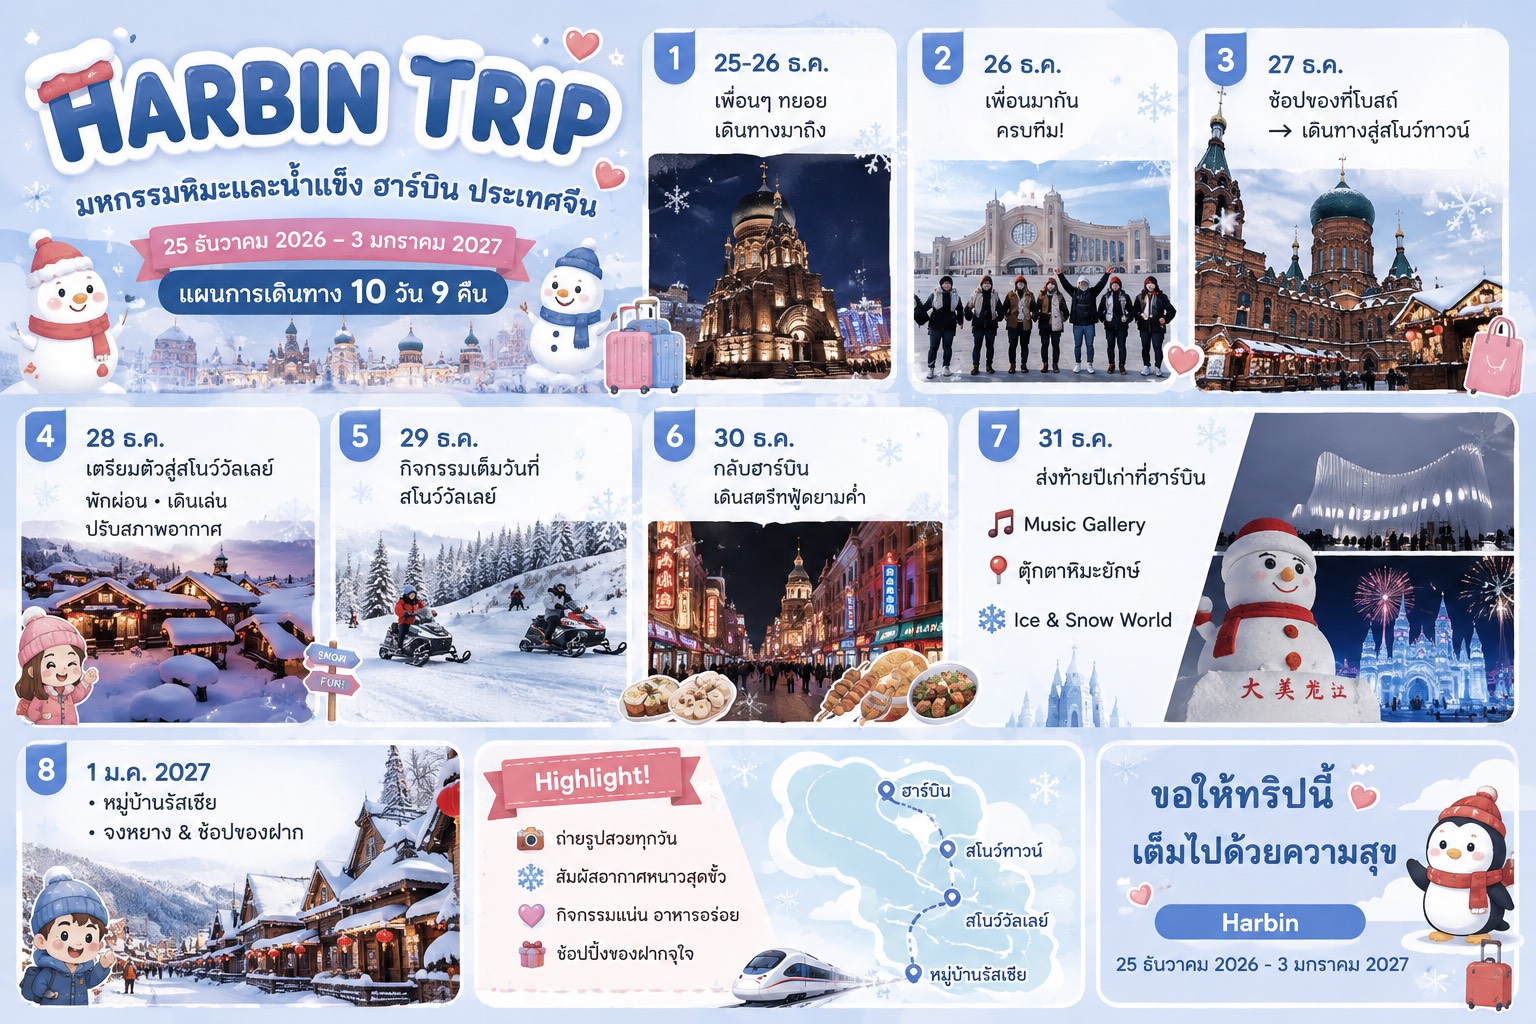
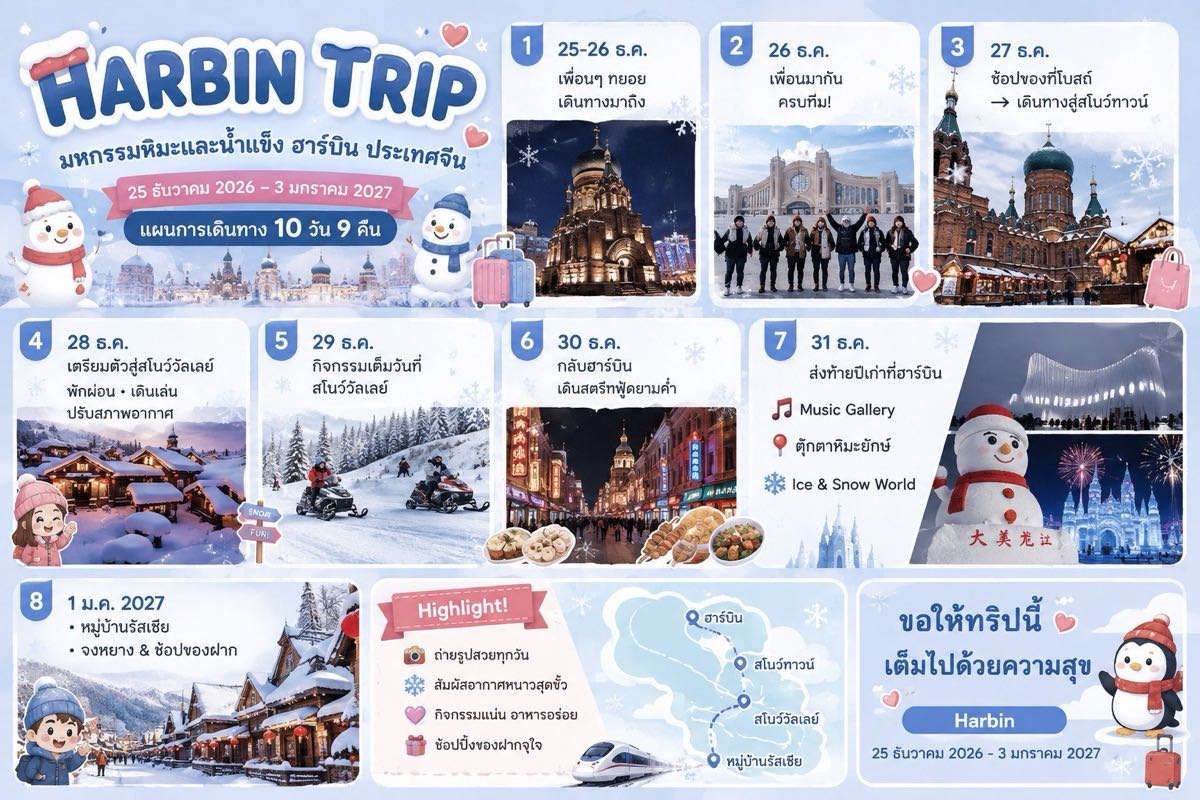
perf: fix slow mobile load
- Move Phosphor Icons script to body with defer (was render-blocking)
- Compress trip-poster.jpg from 486KB to 199KB (resize 1200px + quality 50)
- Add loading=lazy to poster image
- Add preconnect hints for Google Fonts
- Inline critical body CSS in index.html
- Add Thai lang + theme-color meta

diff --git a/index.html b/index.html
@@ -1,15 +1,23 @@
 <!doctype html>
-<html lang="en">
+<html lang="th">
   <head>
     <meta charset="UTF-8" />
     <link rel="icon" type="image/svg+xml" href="/favicon.svg" />
     <meta name="viewport" content="width=device-width, initial-scale=1.0" />
-    <link href="https://fonts.googleapis.com/css2?family=Mitr:wght@300;400;500;600;700&family=Baloo+2:wght@500;600;700;800&display=swap" rel="stylesheet">
-    <script src="https://unpkg.com/@phosphor-icons/web"></script>
+    <meta name="theme-color" content="#BFE6FF" />
+    <meta name="description" content="Harbin Trip Planner - แผนเที่ยวฮาร์บิน 8 วัน 25 ธ.ค. 2026 - 1 ม.ค. 2027" />
+    <link rel="preconnect" href="https://fonts.googleapis.com" />
+    <link rel="preconnect" href="https://fonts.gstatic.com" crossorigin />
+    <link href="https://fonts.googleapis.com/css2?family=Mitr:wght@400;500;600;700&family=Baloo+2:wght@500;600;700;800&display=swap" rel="stylesheet">
     <title>Harbin ฮาใจ</title>
+    <style>
+      body{margin:0;background:#BFE6FF;font-family:'Mitr',sans-serif}
+      #root{min-height:100vh}
+    </style>
   </head>
   <body>
     <div id="root"></div>
     <script type="module" src="/src/main.jsx"></script>
+    <script src="https://unpkg.com/@phosphor-icons/web" defer></script>
   </body>
 </html>

diff --git a/src/App.jsx b/src/App.jsx
@@ -62,7 +62,7 @@ export default function App(){
       {/* Trip Poster */}
       <div style={{padding:'12px 16px 0'}}>
         <button onClick={()=>setPosterOpen(true)} style={{all:'unset',cursor:'zoom-in',display:'block',width:'100%',background:'#fff',border:'3px solid var(--ice)',borderRadius:20,padding:8,boxShadow:'0 10px 26px rgba(60,120,180,.14)'}}>
-          <img src="/trip-poster.jpg" alt="แผนเที่ยวฮาร์บิน 8 วัน" style={{display:'block',width:'100%',height:'auto',borderRadius:14}}/>
+          <img src="/trip-poster.jpg" alt="แผนเที่ยวฮาร์บิน 8 วัน" loading="lazy" style={{display:'block',width:'100%',height:'auto',borderRadius:14}}/>
         </button>
         <p style={{margin:'8px 0 0',fontSize:12,textAlign:'center',color:'rgba(43,58,85,.5)'}}>แตะเพื่อดูภาพรวมเต็มจอ</p>
       </div>
